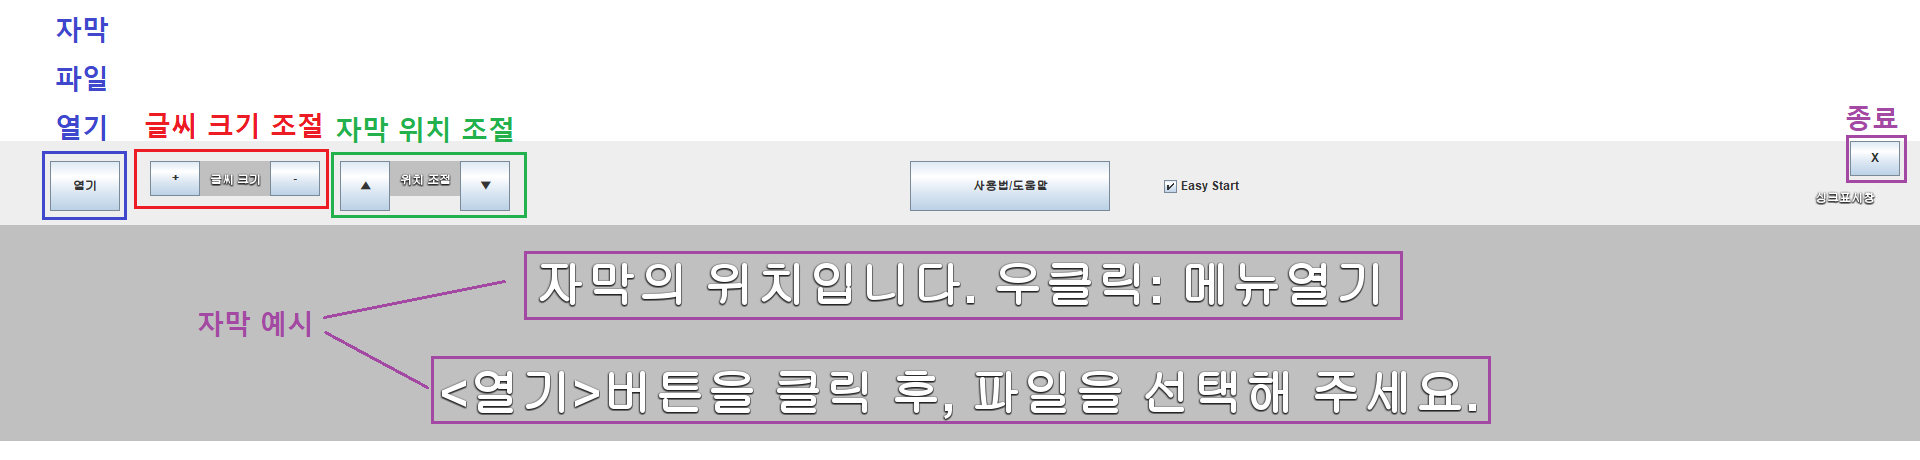
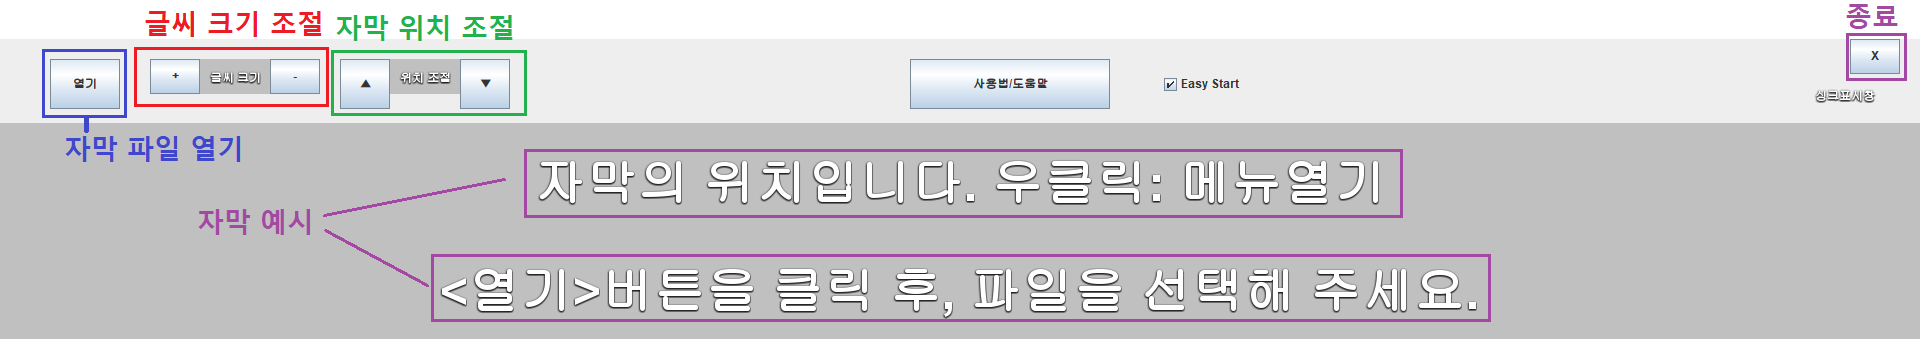
v1.0.1 update:help

diff --git a/src/HelpPanel.java b/src/HelpPanel.java
@@ -1,0 +1,59 @@
+import javax.swing.*;
+import java.awt.*;
+import java.awt.event.MouseAdapter;
+import java.awt.event.MouseEvent;
+import java.io.IOException;
+import java.net.URI;
+import java.net.URISyntaxException;
+
+public class HelpPanel extends JPanel {
+    HelpPanel(String version) {
+
+        setLayout(new BoxLayout(this, BoxLayout.PAGE_AXIS));
+        setAlignmentX(Component.CENTER_ALIGNMENT);
+        setAlignmentY(Component.CENTER_ALIGNMENT);
+        //add(new JLabel(new ImageIcon(new ImageIcon("Introduction.png").getImage().getScaledInstance((int) (1920 * 0.8), (int) (320 * 0.8), Image.SCALE_DEFAULT))));
+        add(new JLabel(new ImageIcon(Toolkit.getDefaultToolkit().createImage(this.getClass().getClassLoader().getResource("Introduction.png")).getScaledInstance((int) (1920 * 0.8), (int) (320 * 0.8), Image.SCALE_DEFAULT))));
+
+
+        JLabel jLabel = new JLabel("<html><h1 align=\"center\">###########사용법###########</h1>" +
+                "<h3>1. 글씨 크기와 자막 위치를 조절합니다.<br>플레이 중에도 우클릭으로 메뉴를 열어 조절 가능</h3>" +
+                "<h3>2. 열기 버튼을 클릭 후, 자막 파일을 선택합니다<br>" +
+                "&nbsp;&nbsp;### Easy Start 체크시###<br>&nbsp;&nbsp;2-1. 시작 하고자 하는 자막을 &lt;이전 버튼, 다음&gt; 버튼으로 선택합니다.<br>&nbsp;&nbsp;2-2.자막이 나오는 시간에 맞춰 GO를 클릭합니다.\n" +
+                "<h3>3. 즐겁게 감상합니다.</html>", SwingConstants.CENTER);
+
+
+        add(jLabel);
+
+
+        JLabel contact = new JLabel("<html> <h4>버그 및 에러제보 : <a href=\"\">shinyu.choi@tum.de</a><h4></html>", SwingConstants.CENTER);
+        contact.setCursor(new Cursor(Cursor.HAND_CURSOR));
+        add(contact);
+        addMouseListener(new MouseAdapter() {
+            @Override
+            public void mouseClicked(MouseEvent e) {
+                try {
+                    Desktop.getDesktop().mail(new URI("mailto:shinyu.choi@tum.de?subject=BugReport"));
+                } catch (URISyntaxException | IOException ex) {
+                }
+            }
+        });
+        JLabel website = new JLabel("<html> <h4>GitHub : <a href=\"\">https://github.com/shinyuchoi/sub</a></h4></html>", SwingConstants.CENTER);
+        website.setCursor(new Cursor(Cursor.HAND_CURSOR));
+        add(website);
+        website.addMouseListener(new MouseAdapter() {
+            @Override
+            public void mouseClicked(MouseEvent e) {
+                try {
+                    Desktop.getDesktop().browse(new URI("https://github.com/shinyuchoi/sub"));
+                } catch (URISyntaxException | IOException ex) {
+                }
+            }
+        });
+        JLabel jLabel1 = new JLabel("<html><h5>" + version + "<br>Copyright (c) 2020, Choi shin-yu <br>All rights reserved.</h5></html", SwingConstants.CENTER);
+        add(jLabel1);
+
+    }
+
+
+}

diff --git a/src/UI.java b/src/UI.java
@@ -11,16 +11,19 @@ import java.util.ArrayList;
 
 public class UI extends JFrame {
 
+    final String version = "version 1.0";
+
     //UI
     JFrame jFrame;
     JLabel subTextLabel, subTextUnderLabel, fontSizeExplainLabel, infoLabel, frameLocationLabel;
     JButton open, exit, fontSmaller, fontBigger, moveUp, moveDown, helpButton;
     JCheckBox easyStartCheckBox;
 
+
     //Values
     private boolean playing, fileSelected;
     int fontSize, frameHeight, frameWidth;
-    boolean isTransparent, easyStart;
+    boolean isTransparent;
 
     ArrayList<JButton> jButtonList;
 
@@ -34,12 +37,6 @@ public class UI extends JFrame {
     //class
     SubThread subThread;
     Thread thread;
-    String help = "1. 글씨 크기와 자막 위치를 조절합니다. \n" +
-            "플레이 중에도 우클릭으로 메뉴를 열어 조절 가능\n" +
-            "2. 열기 버튼을 클릭 후, 자막 파일을 선택합니다\n" +
-            "      ### Easy Start 체크시###\n      2-1. 시작 하고자 하는 자막을 < 와 > 버튼으로 선택합니다. \n      2-2.자막이 나오는 시간에 맞춰 GO를 클릭합니다.\n" +
-            "3. 즐겁게 감상합니다.\n\n\n" +
-            "버그 및 에러 제보: shinyu.choi@tum.de\nVersion 1.0\nCopyright (c) 2020, Choi shin-yu \nAll rights reserved. ";
 
     UI() {
         initValues();
@@ -145,10 +142,8 @@ public class UI extends JFrame {
             jFrame.setLocation(jFrame.getX(), jFrame.getY() + 10);
 
         });
-        helpButton = createButton((jFrame.getWidth() / 2) - 50, 20, new Dimension(200, bigButtonSize.height), "사용법/도움말", e -> JOptionPane.showMessageDialog(null, help
-                , "사용법/도움말",
-                JOptionPane.INFORMATION_MESSAGE));
-
+        //   helpButton = createButton((jFrame.getWidth() / 2) - 50, 20, new Dimension(200, bigButtonSize.height), "사용법/도움말", e -> JOptionPane.showMessageDialog(null, help, "사용법/도움말", JOptionPane.INFORMATION_MESSAGE));
+        helpButton = createButton((jFrame.getWidth() / 2) - 50, 20, new Dimension(200, bigButtonSize.height), "사용법/도움말", e -> displayGUI());
         easyStartCheckBox = new JCheckBox("Easy Start");
         easyStartCheckBox.setSelected(true);
         easyStartCheckBox.setSize(100, 50);
@@ -278,4 +273,13 @@ public class UI extends JFrame {
         subTextUnderLabel.setText(down);
         jFrame.repaint();
     }
+
+    private void displayGUI() {
+        JOptionPane.showMessageDialog(null,
+                new HelpPanel(version),
+                "사용법, 도움말",
+                JOptionPane.PLAIN_MESSAGE);
+    }
+
+
 }

diff --git a/src/popupMenus.java b/src/popupMenus.java
@@ -83,10 +83,10 @@ public class popupMenus extends JPopupMenu {
 
 
         add(addMenu("사용법/도움말", e -> {
-            JOptionPane.showMessageDialog(ui.jFrame, ui.help
+            JOptionPane.showMessageDialog(null, new HelpPanel(ui.version)
                     ,
                     "사용법/도움말",
-                    JOptionPane.INFORMATION_MESSAGE);
+                    JOptionPane.PLAIN_MESSAGE);
 
         }));
         add(addMenu("종료", e -> System.exit(0)));
